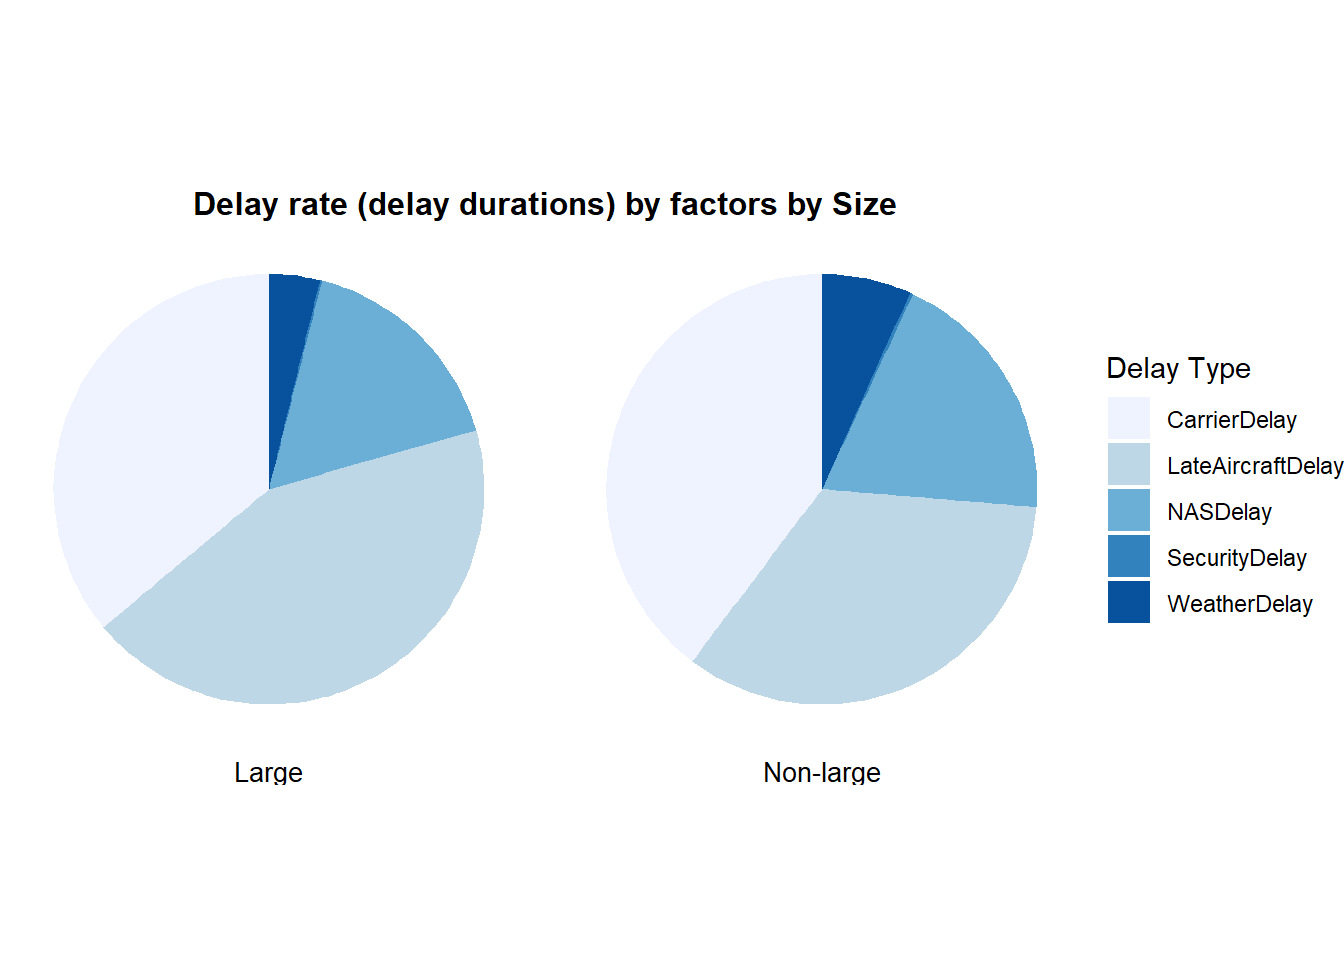
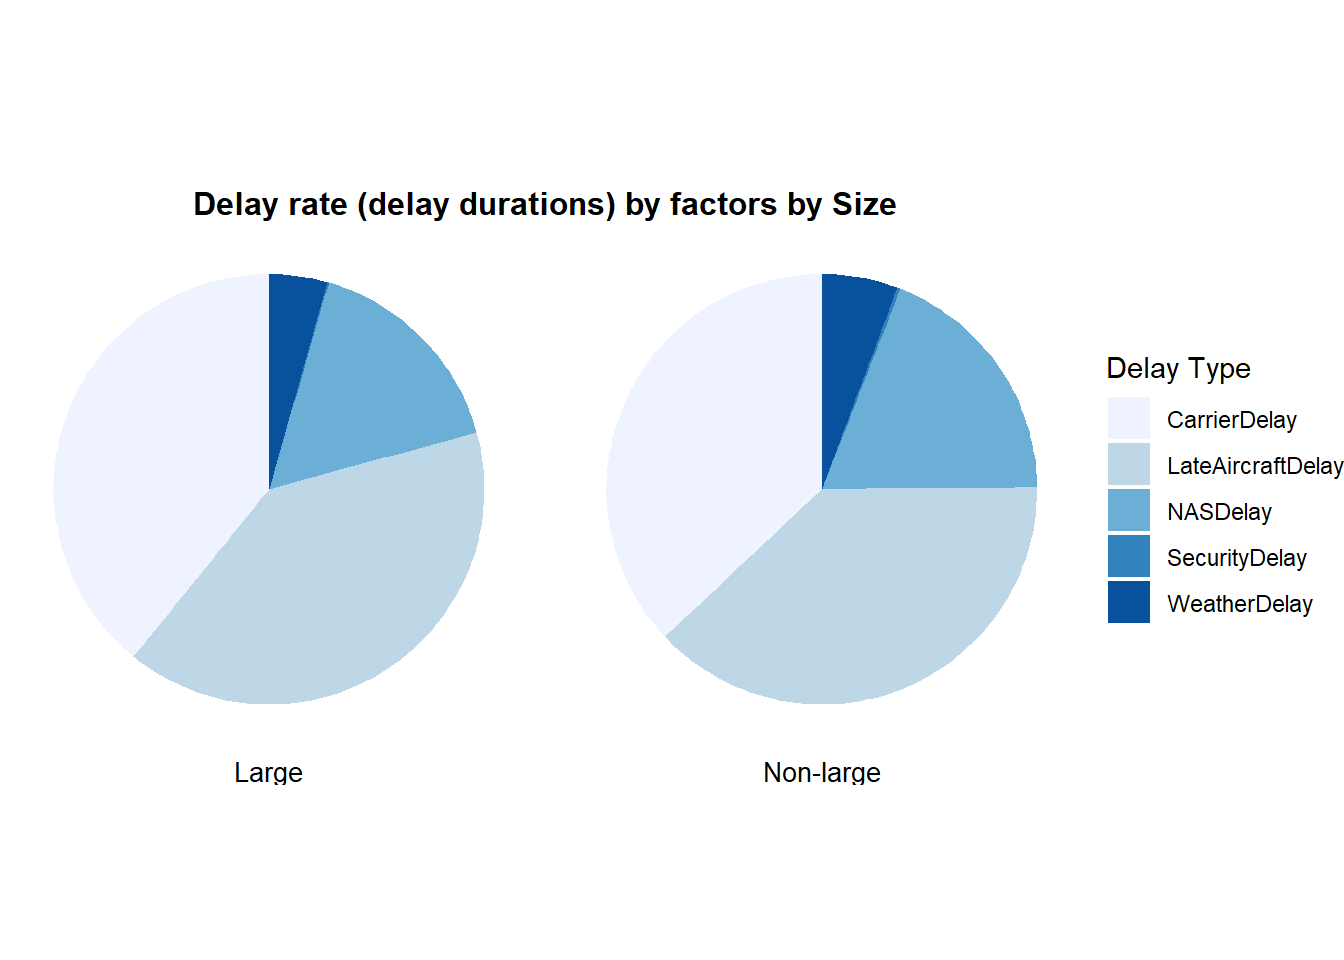
2nd version

diff --git a/FinalProject/FinalProject_JiaweiQin.html b/FinalProject/FinalProject_JiaweiQin.html
@@ -611,41 +611,40 @@ pre > code.sourceCode > span > a:first-child::before { text-decoration: underlin
 <span id="cb22-4"><a href="#cb22-4" aria-hidden="true" tabindex="-1"></a>  <span class="fu">mutate</span>(<span class="at">Airline_Size =</span> <span class="fu">case_when</span>(</span>
 <span id="cb22-5"><a href="#cb22-5" aria-hidden="true" tabindex="-1"></a>    Airline <span class="sc">%in%</span> <span class="fu">c</span>(<span class="st">"Delta Air Lines"</span>, </span>
 <span id="cb22-6"><a href="#cb22-6" aria-hidden="true" tabindex="-1"></a>                   <span class="st">"American Airlines"</span>, </span>
-<span id="cb22-7"><a href="#cb22-7" aria-hidden="true" tabindex="-1"></a>                   <span class="st">"United Airlines"</span>, </span>
-<span id="cb22-8"><a href="#cb22-8" aria-hidden="true" tabindex="-1"></a>                   <span class="st">"Southwest Airlines"</span>) <span class="sc">~</span> <span class="st">"Large"</span>,</span>
-<span id="cb22-9"><a href="#cb22-9" aria-hidden="true" tabindex="-1"></a>    <span class="cn">TRUE</span> <span class="sc">~</span> <span class="st">"Non-large"</span></span>
-<span id="cb22-10"><a href="#cb22-10" aria-hidden="true" tabindex="-1"></a>  )) <span class="sc">%&gt;%</span></span>
-<span id="cb22-11"><a href="#cb22-11" aria-hidden="true" tabindex="-1"></a>  <span class="fu">filter</span>(<span class="sc">!</span><span class="fu">if_all</span>(<span class="fu">c</span>(CarrierDelay, WeatherDelay, NASDelay, SecurityDelay, LateAircraftDelay), is.na)) <span class="sc">%&gt;%</span></span>
-<span id="cb22-12"><a href="#cb22-12" aria-hidden="true" tabindex="-1"></a>  <span class="fu">filter</span>(ArrDelay <span class="sc">&gt;</span> <span class="dv">0</span>) <span class="sc">%&gt;%</span>  </span>
-<span id="cb22-13"><a href="#cb22-13" aria-hidden="true" tabindex="-1"></a>  <span class="fu">group_by</span>(Airline_Size) <span class="sc">%&gt;%</span></span>
-<span id="cb22-14"><a href="#cb22-14" aria-hidden="true" tabindex="-1"></a>  <span class="fu">summarise</span>(<span class="at">CarrierDelay =</span> <span class="fu">sum</span>(CarrierDelay, <span class="at">na.rm =</span> <span class="cn">TRUE</span>),</span>
-<span id="cb22-15"><a href="#cb22-15" aria-hidden="true" tabindex="-1"></a>            <span class="at">WeatherDelay =</span> <span class="fu">sum</span>(WeatherDelay, <span class="at">na.rm =</span> <span class="cn">TRUE</span>),</span>
-<span id="cb22-16"><a href="#cb22-16" aria-hidden="true" tabindex="-1"></a>            <span class="at">NASDelay =</span> <span class="fu">sum</span>(NASDelay, <span class="at">na.rm =</span> <span class="cn">TRUE</span>),</span>
-<span id="cb22-17"><a href="#cb22-17" aria-hidden="true" tabindex="-1"></a>            <span class="at">SecurityDelay =</span> <span class="fu">sum</span>(SecurityDelay, <span class="at">na.rm =</span> <span class="cn">TRUE</span>),</span>
-<span id="cb22-18"><a href="#cb22-18" aria-hidden="true" tabindex="-1"></a>            <span class="at">LateAircraftDelay =</span> <span class="fu">sum</span>(LateAircraftDelay, </span>
-<span id="cb22-19"><a href="#cb22-19" aria-hidden="true" tabindex="-1"></a>                                    <span class="at">na.rm =</span> <span class="cn">TRUE</span>),</span>
-<span id="cb22-20"><a href="#cb22-20" aria-hidden="true" tabindex="-1"></a>            <span class="at">TotalDelay =</span> <span class="fu">sum</span>(ArrDelay, <span class="at">na.rm =</span> <span class="cn">TRUE</span>)</span>
-<span id="cb22-21"><a href="#cb22-21" aria-hidden="true" tabindex="-1"></a>  ) <span class="sc">%&gt;%</span></span>
-<span id="cb22-22"><a href="#cb22-22" aria-hidden="true" tabindex="-1"></a>  <span class="fu">pivot_longer</span>(<span class="at">cols =</span> CarrierDelay<span class="sc">:</span>LateAircraftDelay, </span>
-<span id="cb22-23"><a href="#cb22-23" aria-hidden="true" tabindex="-1"></a>               <span class="at">names_to =</span> <span class="st">"DelayType"</span>, </span>
-<span id="cb22-24"><a href="#cb22-24" aria-hidden="true" tabindex="-1"></a>               <span class="at">values_to =</span> <span class="st">"DelayTime"</span>) <span class="sc">%&gt;%</span></span>
-<span id="cb22-25"><a href="#cb22-25" aria-hidden="true" tabindex="-1"></a>  <span class="fu">mutate</span>(<span class="at">Percentage =</span> DelayTime <span class="sc">/</span> TotalDelay <span class="sc">*</span> <span class="dv">100</span>) <span class="sc">%&gt;%</span></span>
-<span id="cb22-26"><a href="#cb22-26" aria-hidden="true" tabindex="-1"></a>  <span class="fu">ggplot</span>(<span class="fu">aes</span>(<span class="at">x =</span> <span class="st">""</span>, </span>
-<span id="cb22-27"><a href="#cb22-27" aria-hidden="true" tabindex="-1"></a>             <span class="at">y =</span> Percentage, </span>
-<span id="cb22-28"><a href="#cb22-28" aria-hidden="true" tabindex="-1"></a>             <span class="at">fill =</span> DelayType)) <span class="sc">+</span></span>
-<span id="cb22-29"><a href="#cb22-29" aria-hidden="true" tabindex="-1"></a>  <span class="fu">geom_bar</span>(<span class="at">stat =</span> <span class="st">"identity"</span>, <span class="at">width =</span> <span class="dv">1</span>) <span class="sc">+</span></span>
-<span id="cb22-30"><a href="#cb22-30" aria-hidden="true" tabindex="-1"></a>  <span class="fu">coord_polar</span>(<span class="st">"y"</span>, <span class="at">start =</span> <span class="dv">0</span>) <span class="sc">+</span></span>
-<span id="cb22-31"><a href="#cb22-31" aria-hidden="true" tabindex="-1"></a>  <span class="fu">facet_wrap</span>(<span class="sc">~</span> Airline_Size, </span>
-<span id="cb22-32"><a href="#cb22-32" aria-hidden="true" tabindex="-1"></a>             <span class="at">strip.position =</span> <span class="st">"bottom"</span>) <span class="sc">+</span></span>
-<span id="cb22-33"><a href="#cb22-33" aria-hidden="true" tabindex="-1"></a>  <span class="fu">labs</span>(<span class="at">title =</span> <span class="st">"Delay rate (delay durations) by factors by Size"</span>, </span>
-<span id="cb22-34"><a href="#cb22-34" aria-hidden="true" tabindex="-1"></a>       <span class="at">fill =</span> <span class="st">"Delay Type"</span>) <span class="sc">+</span></span>
-<span id="cb22-35"><a href="#cb22-35" aria-hidden="true" tabindex="-1"></a>  <span class="fu">scale_fill_brewer</span>(<span class="at">palette =</span> <span class="st">"Blues"</span>) <span class="sc">+</span>  </span>
-<span id="cb22-36"><a href="#cb22-36" aria-hidden="true" tabindex="-1"></a>  <span class="fu">theme_void</span>() <span class="sc">+</span>  </span>
-<span id="cb22-37"><a href="#cb22-37" aria-hidden="true" tabindex="-1"></a>  <span class="fu">theme</span>(<span class="at">plot.title =</span> <span class="fu">element_text</span>(<span class="at">size =</span> <span class="dv">12</span>, </span>
-<span id="cb22-38"><a href="#cb22-38" aria-hidden="true" tabindex="-1"></a>                                  <span class="at">face =</span> <span class="st">"bold"</span>, </span>
-<span id="cb22-39"><a href="#cb22-39" aria-hidden="true" tabindex="-1"></a>                                  <span class="at">hjust =</span> <span class="fl">0.5</span>),</span>
-<span id="cb22-40"><a href="#cb22-40" aria-hidden="true" tabindex="-1"></a>        <span class="at">strip.text =</span> <span class="fu">element_text</span>(<span class="at">size =</span> <span class="dv">10</span>),  </span>
-<span id="cb22-41"><a href="#cb22-41" aria-hidden="true" tabindex="-1"></a>        <span class="at">strip.placement =</span> <span class="st">"outside"</span>)</span></code><button title="Copy to Clipboard" class="code-copy-button"><i class="bi"></i></button></pre></div>
+<span id="cb22-7"><a href="#cb22-7" aria-hidden="true" tabindex="-1"></a>                   <span class="st">"United Airlines"</span>) <span class="sc">~</span> <span class="st">"Large"</span>,</span>
+<span id="cb22-8"><a href="#cb22-8" aria-hidden="true" tabindex="-1"></a>    <span class="cn">TRUE</span> <span class="sc">~</span> <span class="st">"Non-large"</span></span>
+<span id="cb22-9"><a href="#cb22-9" aria-hidden="true" tabindex="-1"></a>  )) <span class="sc">%&gt;%</span></span>
+<span id="cb22-10"><a href="#cb22-10" aria-hidden="true" tabindex="-1"></a>  <span class="fu">filter</span>(<span class="sc">!</span><span class="fu">if_all</span>(<span class="fu">c</span>(CarrierDelay, WeatherDelay, NASDelay, SecurityDelay, LateAircraftDelay), is.na)) <span class="sc">%&gt;%</span></span>
+<span id="cb22-11"><a href="#cb22-11" aria-hidden="true" tabindex="-1"></a>  <span class="fu">filter</span>(ArrDelay <span class="sc">&gt;</span> <span class="dv">0</span>) <span class="sc">%&gt;%</span>  </span>
+<span id="cb22-12"><a href="#cb22-12" aria-hidden="true" tabindex="-1"></a>  <span class="fu">group_by</span>(Airline_Size) <span class="sc">%&gt;%</span></span>
+<span id="cb22-13"><a href="#cb22-13" aria-hidden="true" tabindex="-1"></a>  <span class="fu">summarise</span>(<span class="at">CarrierDelay =</span> <span class="fu">sum</span>(CarrierDelay, <span class="at">na.rm =</span> <span class="cn">TRUE</span>),</span>
+<span id="cb22-14"><a href="#cb22-14" aria-hidden="true" tabindex="-1"></a>            <span class="at">WeatherDelay =</span> <span class="fu">sum</span>(WeatherDelay, <span class="at">na.rm =</span> <span class="cn">TRUE</span>),</span>
+<span id="cb22-15"><a href="#cb22-15" aria-hidden="true" tabindex="-1"></a>            <span class="at">NASDelay =</span> <span class="fu">sum</span>(NASDelay, <span class="at">na.rm =</span> <span class="cn">TRUE</span>),</span>
+<span id="cb22-16"><a href="#cb22-16" aria-hidden="true" tabindex="-1"></a>            <span class="at">SecurityDelay =</span> <span class="fu">sum</span>(SecurityDelay, <span class="at">na.rm =</span> <span class="cn">TRUE</span>),</span>
+<span id="cb22-17"><a href="#cb22-17" aria-hidden="true" tabindex="-1"></a>            <span class="at">LateAircraftDelay =</span> <span class="fu">sum</span>(LateAircraftDelay, </span>
+<span id="cb22-18"><a href="#cb22-18" aria-hidden="true" tabindex="-1"></a>                                    <span class="at">na.rm =</span> <span class="cn">TRUE</span>),</span>
+<span id="cb22-19"><a href="#cb22-19" aria-hidden="true" tabindex="-1"></a>            <span class="at">TotalDelay =</span> <span class="fu">sum</span>(ArrDelay, <span class="at">na.rm =</span> <span class="cn">TRUE</span>)</span>
+<span id="cb22-20"><a href="#cb22-20" aria-hidden="true" tabindex="-1"></a>  ) <span class="sc">%&gt;%</span></span>
+<span id="cb22-21"><a href="#cb22-21" aria-hidden="true" tabindex="-1"></a>  <span class="fu">pivot_longer</span>(<span class="at">cols =</span> CarrierDelay<span class="sc">:</span>LateAircraftDelay, </span>
+<span id="cb22-22"><a href="#cb22-22" aria-hidden="true" tabindex="-1"></a>               <span class="at">names_to =</span> <span class="st">"DelayType"</span>, </span>
+<span id="cb22-23"><a href="#cb22-23" aria-hidden="true" tabindex="-1"></a>               <span class="at">values_to =</span> <span class="st">"DelayTime"</span>) <span class="sc">%&gt;%</span></span>
+<span id="cb22-24"><a href="#cb22-24" aria-hidden="true" tabindex="-1"></a>  <span class="fu">mutate</span>(<span class="at">Percentage =</span> DelayTime <span class="sc">/</span> TotalDelay <span class="sc">*</span> <span class="dv">100</span>) <span class="sc">%&gt;%</span></span>
+<span id="cb22-25"><a href="#cb22-25" aria-hidden="true" tabindex="-1"></a>  <span class="fu">ggplot</span>(<span class="fu">aes</span>(<span class="at">x =</span> <span class="st">""</span>, </span>
+<span id="cb22-26"><a href="#cb22-26" aria-hidden="true" tabindex="-1"></a>             <span class="at">y =</span> Percentage, </span>
+<span id="cb22-27"><a href="#cb22-27" aria-hidden="true" tabindex="-1"></a>             <span class="at">fill =</span> DelayType)) <span class="sc">+</span></span>
+<span id="cb22-28"><a href="#cb22-28" aria-hidden="true" tabindex="-1"></a>  <span class="fu">geom_bar</span>(<span class="at">stat =</span> <span class="st">"identity"</span>, <span class="at">width =</span> <span class="dv">1</span>) <span class="sc">+</span></span>
+<span id="cb22-29"><a href="#cb22-29" aria-hidden="true" tabindex="-1"></a>  <span class="fu">coord_polar</span>(<span class="st">"y"</span>, <span class="at">start =</span> <span class="dv">0</span>) <span class="sc">+</span></span>
+<span id="cb22-30"><a href="#cb22-30" aria-hidden="true" tabindex="-1"></a>  <span class="fu">facet_wrap</span>(<span class="sc">~</span> Airline_Size, </span>
+<span id="cb22-31"><a href="#cb22-31" aria-hidden="true" tabindex="-1"></a>             <span class="at">strip.position =</span> <span class="st">"bottom"</span>) <span class="sc">+</span></span>
+<span id="cb22-32"><a href="#cb22-32" aria-hidden="true" tabindex="-1"></a>  <span class="fu">labs</span>(<span class="at">title =</span> <span class="st">"Delay rate (delay durations) by factors by Size"</span>, </span>
+<span id="cb22-33"><a href="#cb22-33" aria-hidden="true" tabindex="-1"></a>       <span class="at">fill =</span> <span class="st">"Delay Type"</span>) <span class="sc">+</span></span>
+<span id="cb22-34"><a href="#cb22-34" aria-hidden="true" tabindex="-1"></a>  <span class="fu">scale_fill_brewer</span>(<span class="at">palette =</span> <span class="st">"Blues"</span>) <span class="sc">+</span>  </span>
+<span id="cb22-35"><a href="#cb22-35" aria-hidden="true" tabindex="-1"></a>  <span class="fu">theme_void</span>() <span class="sc">+</span>  </span>
+<span id="cb22-36"><a href="#cb22-36" aria-hidden="true" tabindex="-1"></a>  <span class="fu">theme</span>(<span class="at">plot.title =</span> <span class="fu">element_text</span>(<span class="at">size =</span> <span class="dv">12</span>, </span>
+<span id="cb22-37"><a href="#cb22-37" aria-hidden="true" tabindex="-1"></a>                                  <span class="at">face =</span> <span class="st">"bold"</span>, </span>
+<span id="cb22-38"><a href="#cb22-38" aria-hidden="true" tabindex="-1"></a>                                  <span class="at">hjust =</span> <span class="fl">0.5</span>),</span>
+<span id="cb22-39"><a href="#cb22-39" aria-hidden="true" tabindex="-1"></a>        <span class="at">strip.text =</span> <span class="fu">element_text</span>(<span class="at">size =</span> <span class="dv">10</span>),  </span>
+<span id="cb22-40"><a href="#cb22-40" aria-hidden="true" tabindex="-1"></a>        <span class="at">strip.placement =</span> <span class="st">"outside"</span>)</span></code><button title="Copy to Clipboard" class="code-copy-button"><i class="bi"></i></button></pre></div>
 <div class="cell-output-display">
 <div>
 <figure class="figure">
